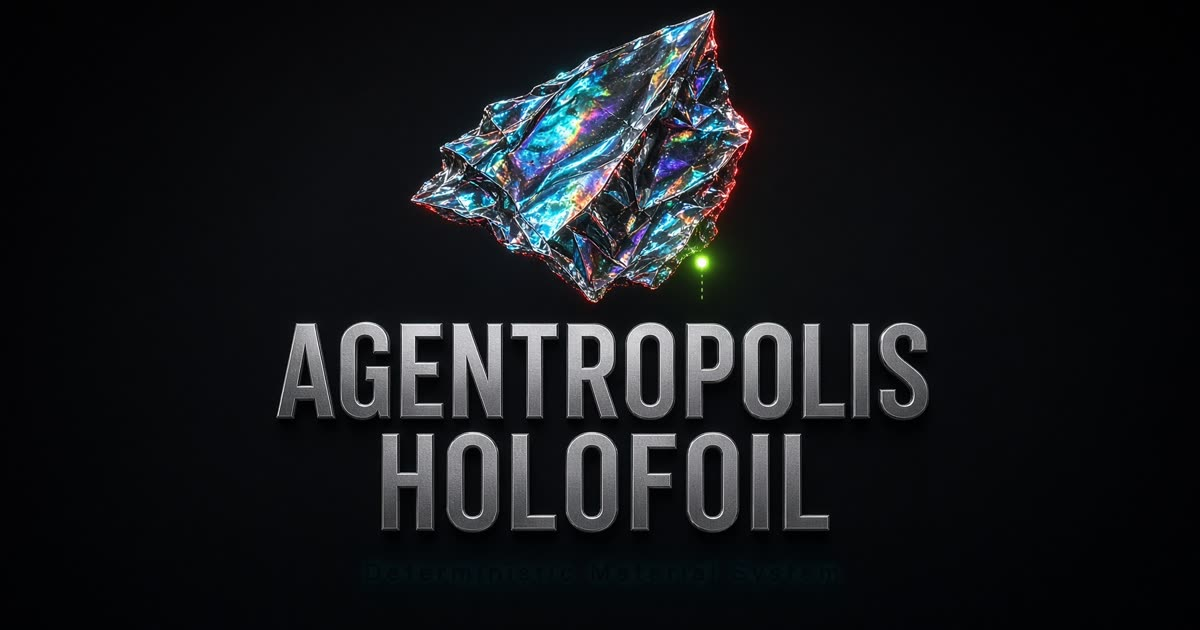
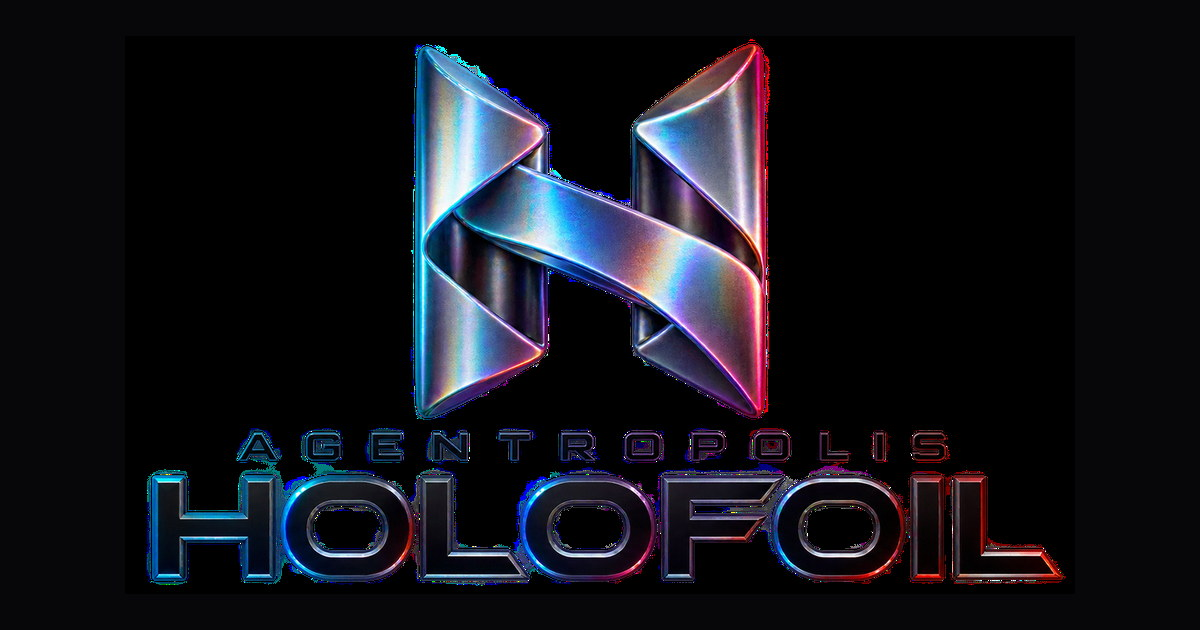
feat: official HOLOFOIL lockup on the IP-clean material system
Wire the holographic H mark into chrome, landing, favicon, and share card.
Keep Holofoil as the deterministic material layer — Origin Engine in,
ARCANA-54 as a downstream contract, not a product inside this app.

Changed region(s): [[0.1233, 0.0, 0.8942, 0.9349]]

diff --git a/src/routes/index.tsx b/src/routes/index.tsx
@@ -13,20 +13,22 @@ function Home() {
   }).value;
 
   return (
-    <main className="mx-auto max-w-7xl px-4 py-10 sm:px-6 sm:py-16">
-      <section className="grid items-center gap-10 lg:grid-cols-[1.15fr_0.85fr]">
-        <div>
-          <p className="font-mono text-[11px] tracking-[0.28em] text-cyan uppercase">
-            HOLOFOIL
+    <main>
+      <section className="border-b border-border bg-bg">
+        <div className="mx-auto max-w-5xl px-4 py-10 sm:px-6 sm:py-16">
+          <img
+            src="/holofoil-mark.jpg"
+            alt="AGENTROPOLIS HOLOFOIL"
+            width={1200}
+            height={704}
+            className="mx-auto w-full max-w-3xl"
+          />
+          <p className="mx-auto mt-8 max-w-2xl text-center text-base leading-relaxed text-muted sm:text-lg">
+            Deterministic holographic and foil presentation for digital
+            collectibles. Design, inspect, and export surfaces Origin Engine
+            can send and ARCANA-54 can place.
           </p>
-          <h1 className="mt-3 max-w-xl font-display text-4xl leading-[1.05] tracking-tight text-fg sm:text-5xl">
-            Deterministic materials for digital collectibles.
-          </h1>
-          <p className="mt-5 max-w-xl text-base leading-relaxed text-muted sm:text-lg">
-            Design, inspect and export responsive holographic surfaces for
-            cards, artifacts, game assets and spatial experiences.
-          </p>
-          <div className="mt-8 flex flex-col gap-3 sm:flex-row">
+          <div className="mt-8 flex flex-col items-center justify-center gap-3 sm:flex-row">
             <Link
               to="/lab"
               className="inline-flex min-h-12 items-center justify-center gap-2 rounded-full bg-cyan px-5 text-sm font-medium text-bg no-underline"
@@ -48,43 +50,72 @@ function Home() {
             </Link>
           </div>
         </div>
-        <HolofoilCard
-          material={featured}
-          title="Specimen Zero"
-          subtitle="Pointer-responsive holographic foil"
-          serial="HFO-0001"
-        />
       </section>
 
-      <section className="mt-16 grid gap-4 md:grid-cols-3">
-        {[
-          {
-            kicker: "Origin Engine",
-            title: "Inputs from Origin Engine",
-            body: "Approved assets, metadata, QC results and collectible inputs arrive as typed records. Holofoil never authors the source art.",
-          },
-          {
-            kicker: "Holofoil",
-            title: "Materials rendered by Holofoil",
-            body: "Deterministic foil configuration, pointer refraction, mobile tilt and exportable JSON another Agentropolis app can consume.",
-          },
-          {
-            kicker: "ARCANA-54",
-            title: "Spatial presentation in ARCANA-54",
-            body: "Optional placement into relic rooms, museums and arcades. Security stays with AGENTROPOLIS-54T.",
-          },
-        ].map((card) => (
-          <article
-            key={card.title}
-            className="rounded-[22px] border border-border bg-bg-elevated p-5"
+      <section className="mx-auto max-w-7xl px-4 py-12 sm:px-6 sm:py-16">
+        <div className="grid items-center gap-10 lg:grid-cols-[0.85fr_1.15fr]">
+          <HolofoilCard
+            material={featured}
+            title="Specimen Zero"
+            subtitle="Pointer-responsive holographic foil"
+            serial="HFO-0001"
           >
-            <p className="font-mono text-[10px] tracking-[0.2em] text-cyan uppercase">
-              {card.kicker}
+            <div className="flex h-full items-center justify-center bg-bg">
+              <img
+                src="/holofoil-h.jpg"
+                alt=""
+                width={256}
+                height={256}
+                className="h-40 w-40 object-contain sm:h-48 sm:w-48"
+              />
+            </div>
+          </HolofoilCard>
+          <div>
+            <p className="font-mono text-[11px] tracking-[0.28em] text-cyan uppercase">
+              System relationship
             </p>
-            <h2 className="mt-3 font-display text-xl">{card.title}</h2>
-            <p className="mt-2 text-sm leading-relaxed text-muted">{card.body}</p>
-          </article>
-        ))}
+            <h1 className="mt-3 max-w-xl font-display text-3xl leading-[1.08] tracking-tight text-fg sm:text-4xl">
+              Origin Engine in. Holofoil materials. ARCANA-54 out.
+            </h1>
+            <p className="mt-4 max-w-xl text-sm leading-relaxed text-muted sm:text-base">
+              Holofoil does not mint, sign wallets, deploy contracts, or replace
+              ARCANA-54. It is the deterministic material layer between approved
+              assets and spatial presentation.
+            </p>
+            <div className="mt-8 grid gap-4 md:grid-cols-3">
+              {[
+                {
+                  kicker: "Origin Engine",
+                  title: "Inputs from Origin Engine",
+                  body: "Approved assets, metadata, QC results and collectible inputs arrive as typed records. Holofoil never authors the source art.",
+                },
+                {
+                  kicker: "Holofoil",
+                  title: "Materials rendered here",
+                  body: "Deterministic foil configuration, pointer refraction, mobile tilt and exportable JSON another Agentropolis app can consume.",
+                },
+                {
+                  kicker: "ARCANA-54",
+                  title: "Spatial presentation downstream",
+                  body: "Optional placement into relic rooms, museums and arcades. Security stays with AGENTROPOLIS-54T.",
+                },
+              ].map((card) => (
+                <article
+                  key={card.title}
+                  className="rounded-[22px] border border-border bg-bg-elevated p-5"
+                >
+                  <p className="font-mono text-[10px] tracking-[0.2em] text-cyan uppercase">
+                    {card.kicker}
+                  </p>
+                  <h2 className="mt-3 font-display text-lg">{card.title}</h2>
+                  <p className="mt-2 text-sm leading-relaxed text-muted">
+                    {card.body}
+                  </p>
+                </article>
+              ))}
+            </div>
+          </div>
+        </div>
       </section>
     </main>
   );

diff --git a/src/routes/dex.tsx b/src/routes/dex.tsx
@@ -1,26 +1,17 @@
 import { createFileRoute } from "@tanstack/react-router";
 import { useEffect, useMemo, useState } from "react";
+import { CreatureGlyph } from "@/components/holofoil/CreatureGlyph";
 import { HolofoilCard } from "@/components/holofoil/HolofoilCard";
-import { CREATURES } from "@/lib/holofoil/creatures";
+import { CREATURES, foilForCreature } from "@/lib/holofoil/creatures";
 import {
   applyFoilPreset,
   DEFAULT_MATERIAL,
   FOIL_TYPES,
-  type FoilType,
 } from "@/lib/holofoil/materials";
 import { HolofoilService } from "@/lib/holofoil/service";
 import type { Creature } from "@/lib/holofoil/types";
 
 export const Route = createFileRoute("/dex")({ component: CreatureDexPage });
-
-function foilFor(creature: Creature): FoilType {
-  if (creature.rarity === "legendary") return "obsidian-foil";
-  if (creature.rarity === "epic") return "rainbow-diffraction";
-  if (creature.type === "crystal") return "prism";
-  if (creature.type === "electric") return "neon-glitch";
-  if (creature.type === "metal") return "brushed-foil";
-  return "holographic";
-}
 
 function CreatureDexPage() {
   const [active, setActive] = useState(CREATURES[0]);
@@ -29,11 +20,12 @@ function CreatureDexPage() {
 
   const material = useMemo(
     () =>
-      applyFoilPreset(foilFor(active), {
+      applyFoilPreset(foilForCreature(active), {
         ...DEFAULT_MATERIAL,
-        glowColor: active.accent.startsWith("#") && active.accent.length === 7
-          ? active.accent
-          : DEFAULT_MATERIAL.glowColor,
+        glowColor:
+          active.accent.startsWith("#") && active.accent.length === 7
+            ? active.accent
+            : DEFAULT_MATERIAL.glowColor,
         seed: `${active.serialPrefix}-${active.dexNumber}`,
       }),
     [active],
@@ -118,13 +110,14 @@ function CreatureDexPage() {
           </dl>
           <p className="mt-5 text-sm leading-relaxed text-muted">{active.lore}</p>
           <p className="mt-3 font-mono text-[11px] text-cyan">
-            Material {foilFor(active)} · {FOIL_TYPES.length} lab types available
+            Material {foilForCreature(active)} · {FOIL_TYPES.length} lab types
+            available
           </p>
         </div>
       </div>
 
       <ul className="mt-10 grid gap-3 sm:grid-cols-2 lg:grid-cols-3">
-        {filtered.map((creature) => {
+        {filtered.map((creature: Creature) => {
           const selected = creature.slug === active.slug;
           return (
             <li key={creature.slug}>
@@ -150,24 +143,5 @@ function CreatureDexPage() {
         })}
       </ul>
     </main>
-  );
-}
-
-function CreatureGlyph({ creature }: { creature: Creature }) {
-  return (
-    <div className="relative flex h-full items-center justify-center">
-      <div
-        className="h-32 w-24 rounded-[40%_40%_32%_32%] border"
-        style={{
-          borderColor: creature.accent,
-          background: `linear-gradient(160deg, ${creature.colors[0]}, ${creature.colors[1] ?? creature.accent})`,
-          boxShadow: `0 0 40px color-mix(in oklab, ${creature.accent} 40%, transparent)`,
-        }}
-      />
-      <div
-        className="absolute h-6 w-10 rounded-full bg-bg/50"
-        style={{ top: "38%" }}
-      />
-    </div>
   );
 }

diff --git a/src/components/layout/AppShell.tsx b/src/components/layout/AppShell.tsx
@@ -36,16 +36,25 @@ export function AppShell({ children }: { children: ReactNode }) {
       </a>
       <header className="sticky top-0 z-40 border-b border-border bg-bg/85 backdrop-blur-md">
         <div className="mx-auto flex max-w-7xl items-center justify-between gap-4 px-4 py-3 sm:px-6">
-          <Link to="/" className="min-w-0 no-underline">
-            <p className="font-mono text-[10px] tracking-[0.28em] text-cyan uppercase">
-              AGENTROPOLIS
-            </p>
-            <p className="font-display text-xl leading-none tracking-tight text-fg">
-              HOLOFOIL
-            </p>
-            <p className="mt-1 text-[11px] text-muted">
-              Deterministic Material System
-            </p>
+          <Link to="/" className="flex min-w-0 items-center gap-3 no-underline">
+            <img
+              src="/holofoil-h.jpg"
+              alt=""
+              width={44}
+              height={44}
+              className="size-11 shrink-0 rounded-md object-contain"
+            />
+            <span className="min-w-0">
+              <p className="font-mono text-[10px] tracking-[0.28em] text-cyan uppercase">
+                AGENTROPOLIS
+              </p>
+              <p className="font-display text-xl leading-none tracking-tight text-fg">
+                HOLOFOIL
+              </p>
+              <p className="mt-1 text-[11px] text-muted">
+                Deterministic Material System
+              </p>
+            </span>
           </Link>
           <nav
             className="hidden items-center gap-1 lg:flex"

diff --git a/src/components/holofoil/CreatureGlyph.tsx b/src/components/holofoil/CreatureGlyph.tsx
@@ -1,0 +1,20 @@
+import type { Creature } from "@/lib/holofoil/types";
+
+export function CreatureGlyph({ creature }: { creature: Creature }) {
+  return (
+    <div className="relative flex h-full items-center justify-center">
+      <div
+        className="h-32 w-24 rounded-[40%_40%_32%_32%] border"
+        style={{
+          borderColor: creature.accent,
+          background: `linear-gradient(160deg, ${creature.colors[0]}, ${creature.colors[1] ?? creature.accent})`,
+          boxShadow: `0 0 40px color-mix(in oklab, ${creature.accent} 40%, transparent)`,
+        }}
+      />
+      <div
+        className="absolute h-6 w-10 rounded-full bg-bg/50"
+        style={{ top: "38%" }}
+      />
+    </div>
+  );
+}

diff --git a/src/lib/holofoil/creatures.ts b/src/lib/holofoil/creatures.ts
@@ -1,3 +1,4 @@
+import type { FoilType } from "./materials";
 import type { Creature } from "./types";
 
 export const CREATURES: Creature[] = [
@@ -150,3 +151,13 @@ export const CREATURES: Creature[] = [
 export function creatureBySlug(slug: string): Creature | undefined {
   return CREATURES.find((c) => c.slug === slug);
 }
+
+export function foilForCreature(creature: Creature): FoilType {
+  if (creature.rarity === "legendary") return "obsidian-foil";
+  if (creature.rarity === "epic") return "rainbow-diffraction";
+  if (creature.type === "crystal") return "prism";
+  if (creature.type === "electric") return "neon-glitch";
+  if (creature.type === "metal") return "brushed-foil";
+  return "holographic";
+}
+

diff --git a/src/lib/holofoil/ip-guard.test.ts b/src/lib/holofoil/ip-guard.test.ts
@@ -17,6 +17,8 @@ const SKIP_DIRS = new Set([
   ".tanstack",
   ".grok",
   "artifacts",
+  "attachments",
+  "screenshots",
 ]);
 const SKIP_FILES = new Set(["package-lock.json"]);
 const TEXT_EXT = new Set([
